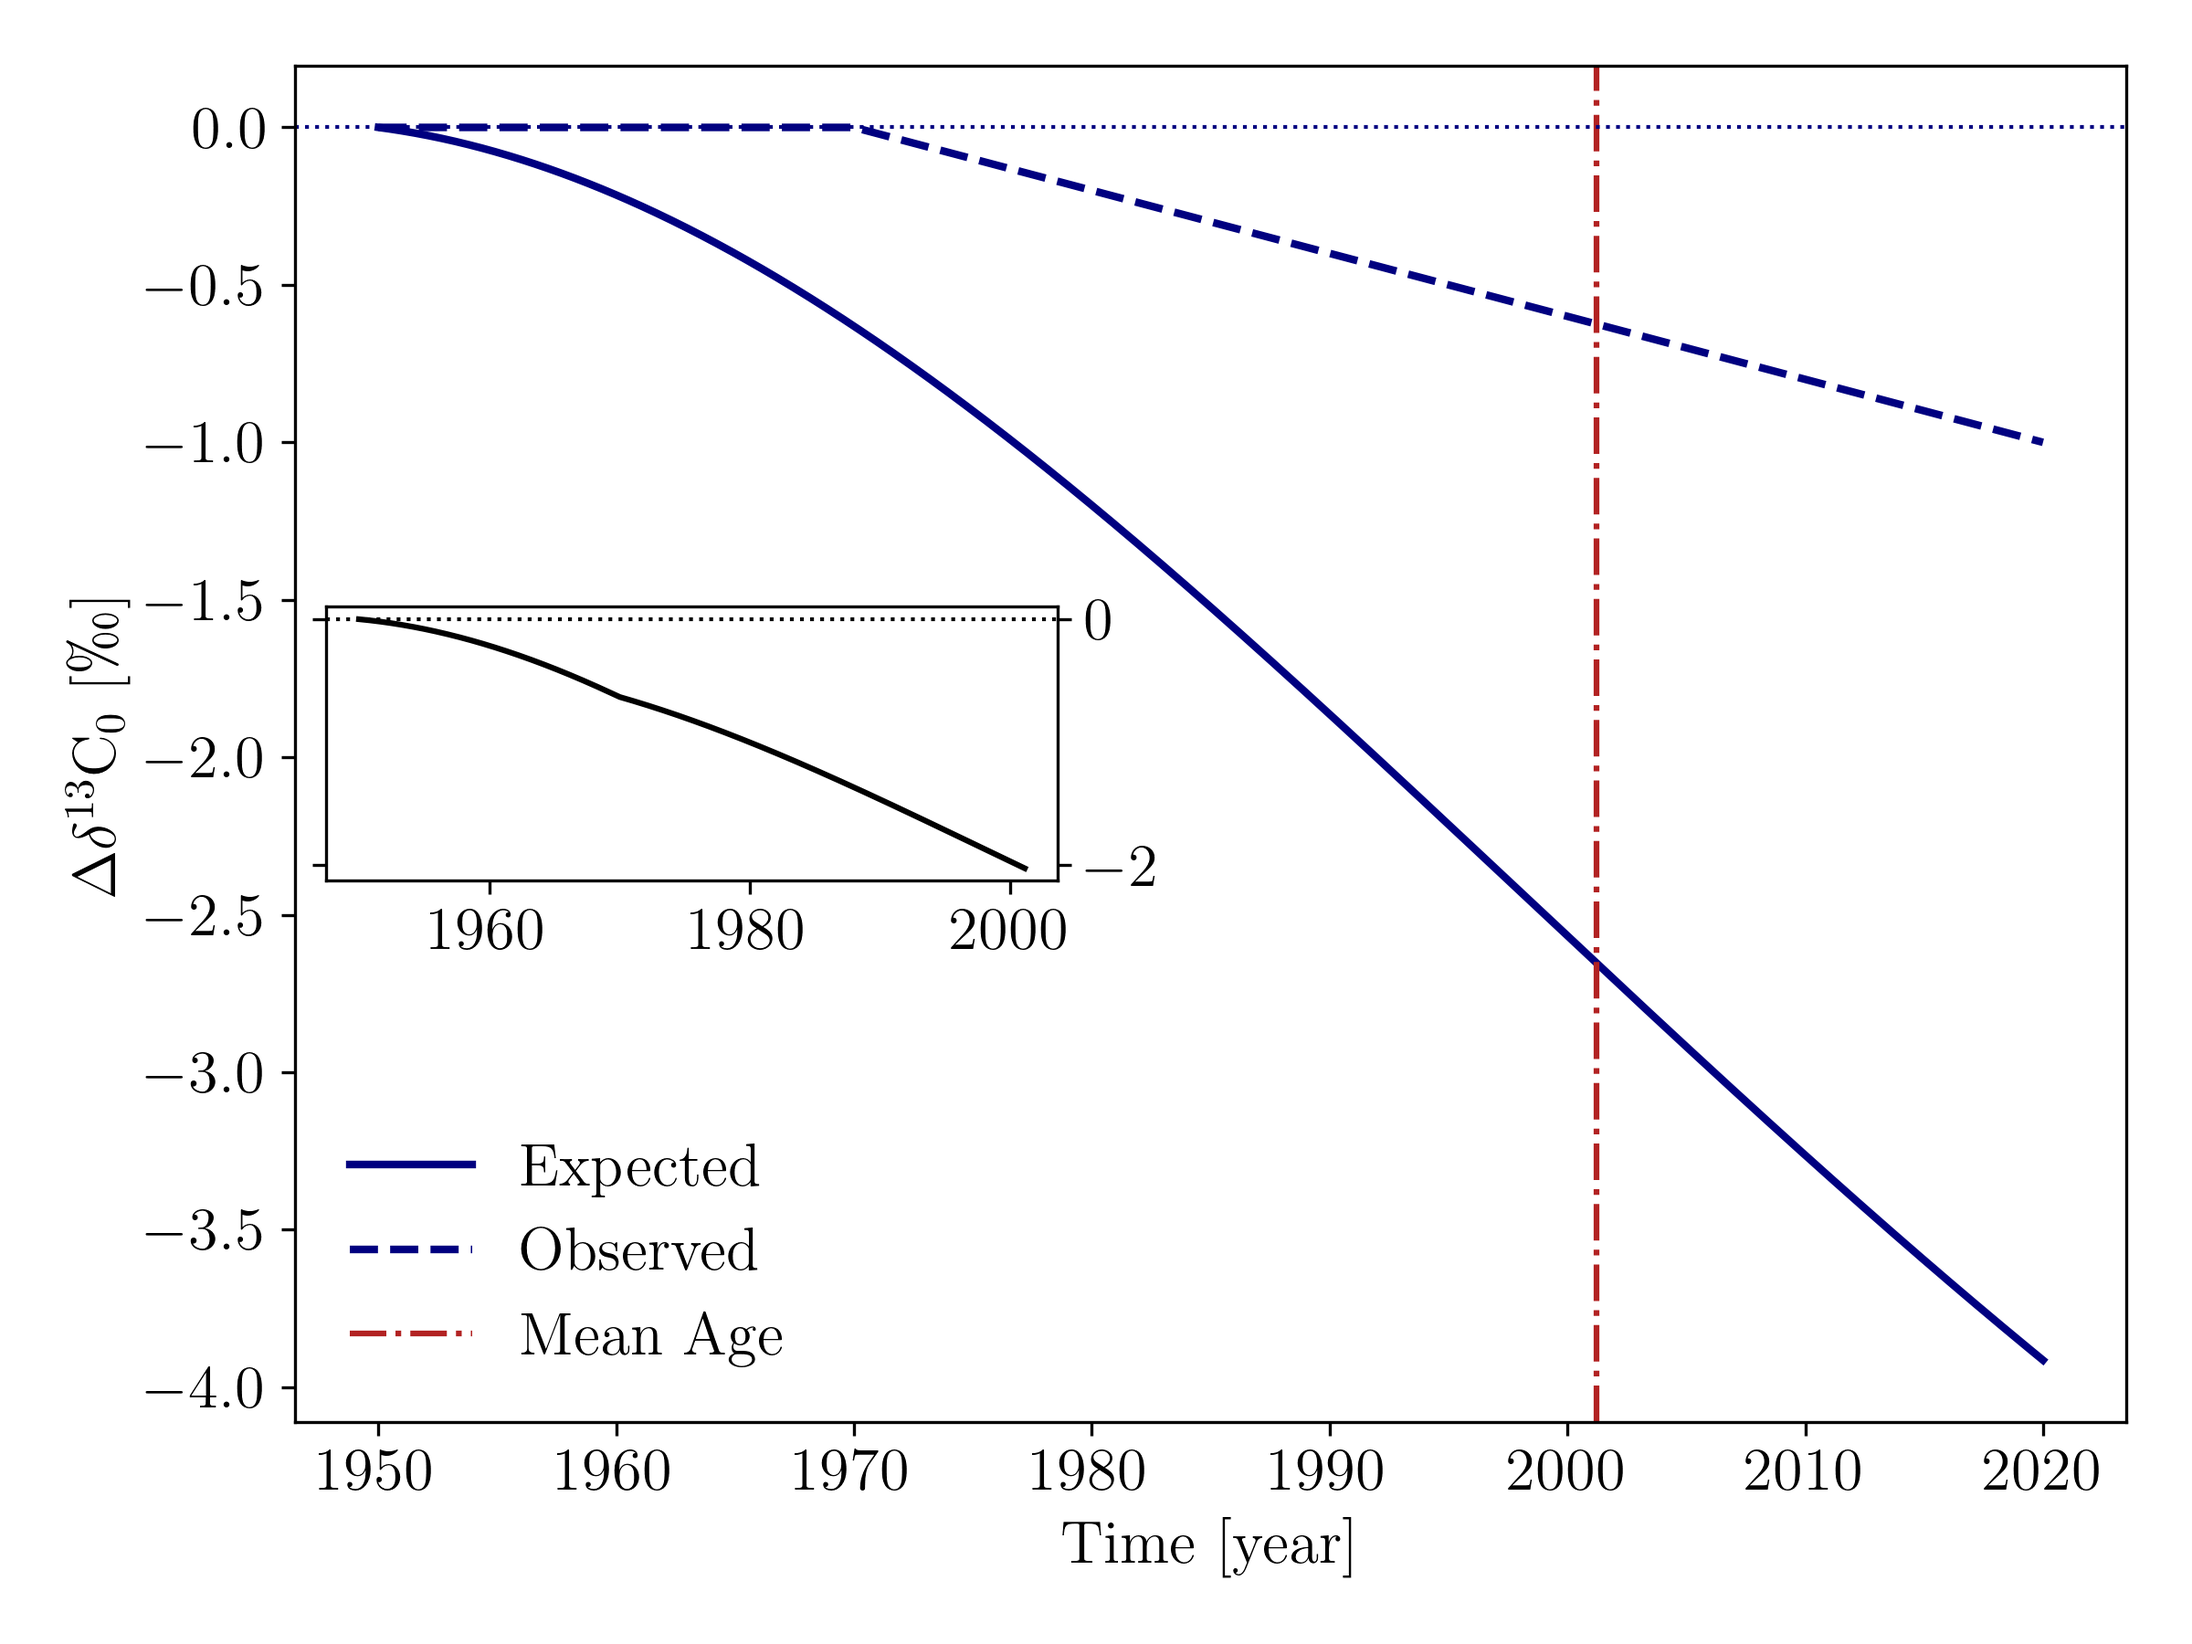
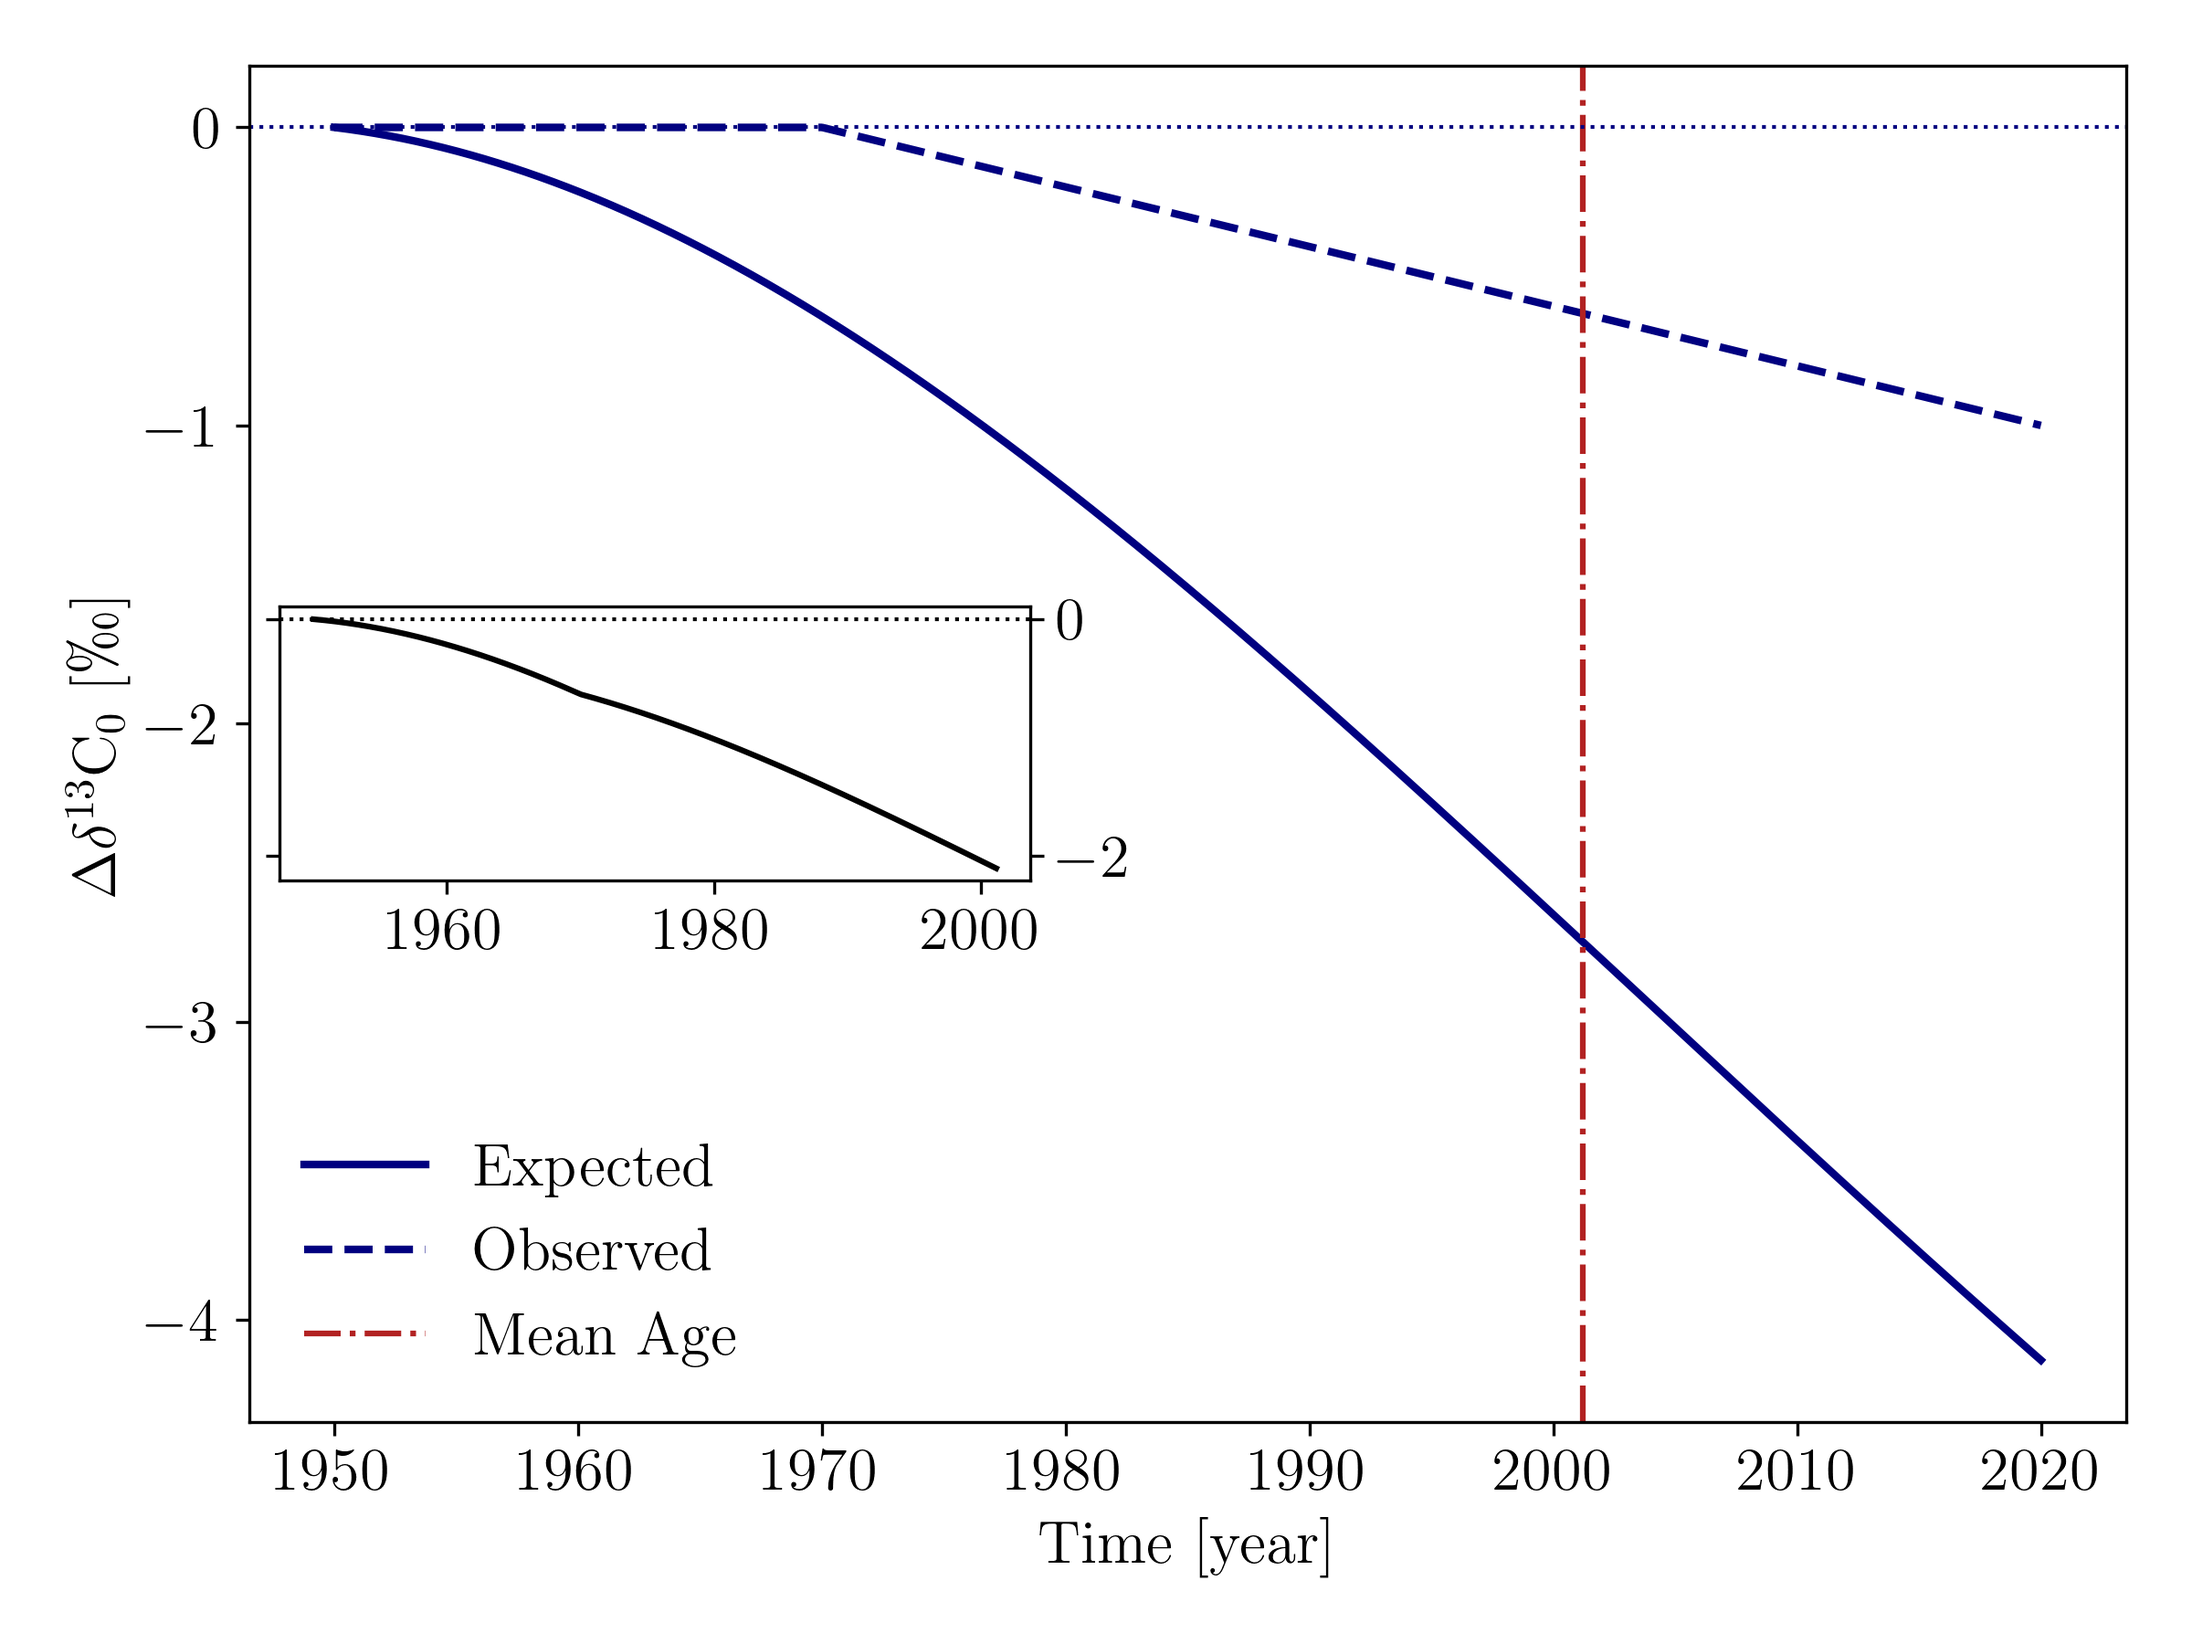
adding in final plots for 12.744 ps3

diff --git a/blog/course_notes/courses/12744/problem_sets/ps3/12744_ps3.html b/blog/course_notes/courses/12744/problem_sets/ps3/12744_ps3.html
@@ -73,7 +73,7 @@ MathJax = {
 
 
 <figure>
-	<img src="images/prob4.png" style="width:50%">
+	<img src="images/prob4_5.png" style="width:50%">
 	<figcaption> Fig. 4: </figcaption>
 </figure>
 
